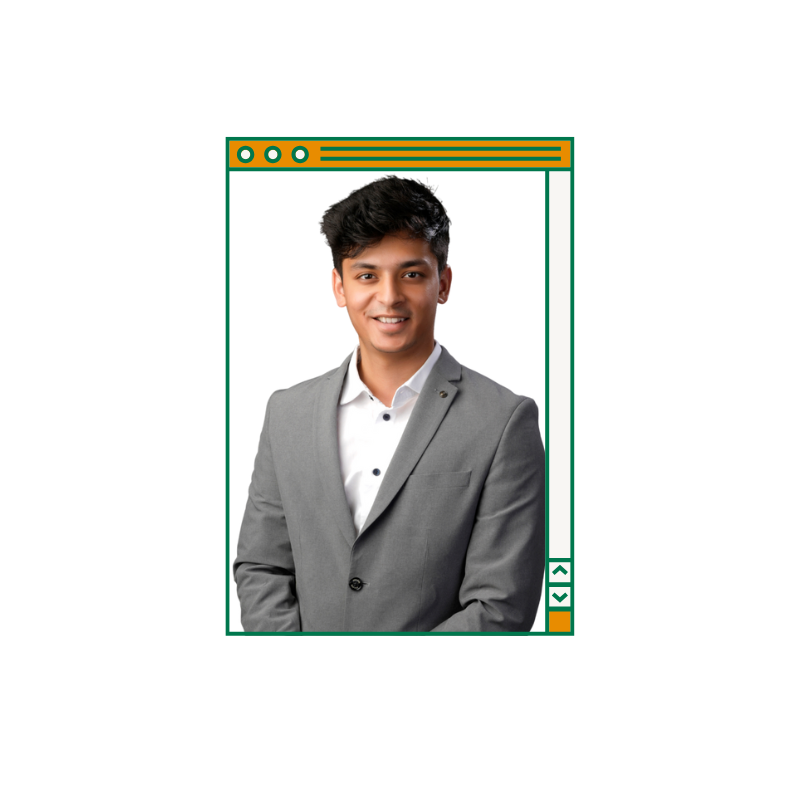
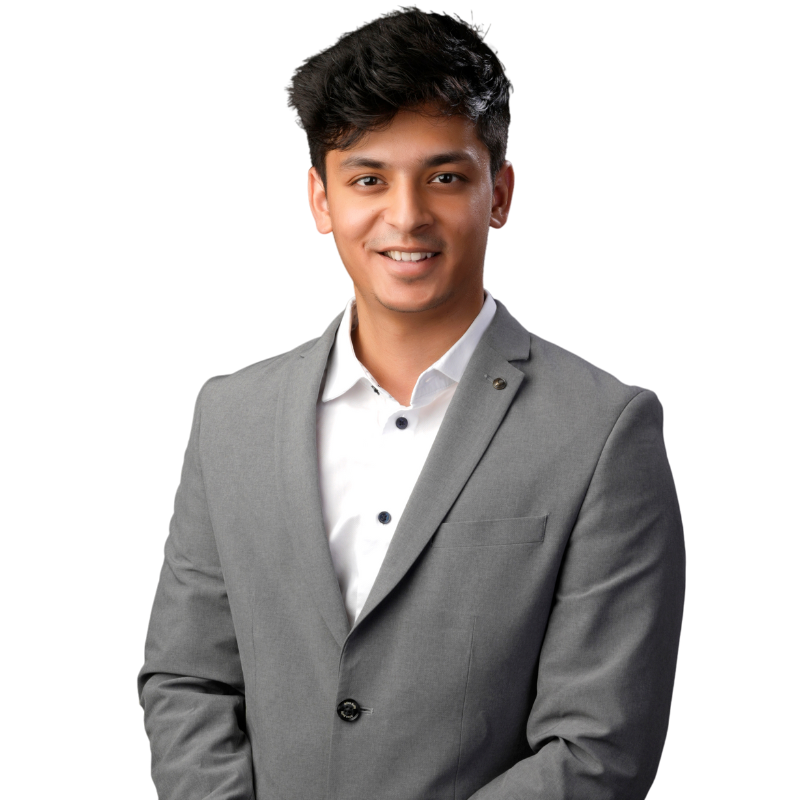
popups added

diff --git a/frontend/src/components/Appbar.tsx b/frontend/src/components/Appbar.tsx
@@ -1,30 +1,41 @@
+import React from 'react';
 
 export function Appbar() {
-
   return (
-    <div className='flex justify-between pt-2'> 
-        <div className="flex pl-48 mb-16">
-            <img src="bora_logo.png" alt="BoraLogo" width='75px' height='75px' />
-            <div className="text-lg font-bold pt-5">
-                Ritik
+    <div className='flex justify-between pt-2 relative'> 
+      <div className="flex pl-48">
+        <img src="bora_logo.png" alt="BoraLogo" width='75px' height='75px' />
+        <a href="https://www.linkedin.com/in/ritikbora" target="_blank" className="flex">
+          <div className="text-lg font-bold pt-5">
+            Ritik
+          </div>
+          <div className="text-lg pt-5 pl-1">
+            Bora
+          </div>
+        </a>
+      </div>
+      <div className="flex justify-between w-1/3 pt-5 relative">
+        <a className="font-semibold hover:font-bold cursor-pointer" target="_blank" href="https://github.com/RitikBora">
+          Github
+        </a>
+        <div className="font-semibold hover:font-bold cursor-pointer relative group">
+          <div className="group">
+            Projects
+            <div className="absolute top-full left-0 bg-white text-black px-4 py-2 rounded-lg hidden group-hover:block z-10">
+              Projects Popup
             </div>
-            <div className="text-lg  pt-5 pl-1">
-                Bora
-            </div>
+          </div>
         </div>
-        <div className="flex justify-between w-1/3 pt-5">
-            <div className="font-semibold hover:font-bold cursor-pointer">
-              Home 
+        <div className="font-semibold hover:font-bold cursor-pointer relative group">
+          <div className="group">
+            Contact
+            <div className="absolute top-full left-0 bg-white text-black px-4 py-2 rounded-lg hidden group-hover:block z-10">
+              Contacts Popup
             </div>
-            <div className="font-semibold hover:font-bold cursor-pointer">
-              Projects
-            </div>
-            <div className="font-semibold hover:font-bold cursor-pointer">
-              Contact
-            </div>
+          </div>
         </div>
-        <div> </div>
+      </div>
+      <div> </div>
     </div>  
   )
 }
-

diff --git a/frontend/src/components/Landing.tsx b/frontend/src/components/Landing.tsx
@@ -1,7 +1,7 @@
 export function Landing() {
 
   return (
-    <div className="ml-48 pb-20">
+    <div className="ml-48 pb-20 mt-16">
         <img src="hi_there.png" alt="Hello There"  />
         <div className="flex">
             <div className="m-4">
@@ -17,9 +17,9 @@ export function Landing() {
             </div>
         
         </div>
-        <div className=" absolute bottom-0 right-0 overflow-hidden">
-            <div className="relative -top-10 -right-10">
-                <img src="profilePhoto.png" alt="" width="800px" height="750px" className=""/>
+        <div className=" absolute top-20 bottom-0 right-0 overflow-hidden  mr-20">
+            <div className="relative top-20 right-20">
+                <img src="profilePhoto.png" alt="" width="450px" height="450px" className=""/>
             </div>
         </div>
 
